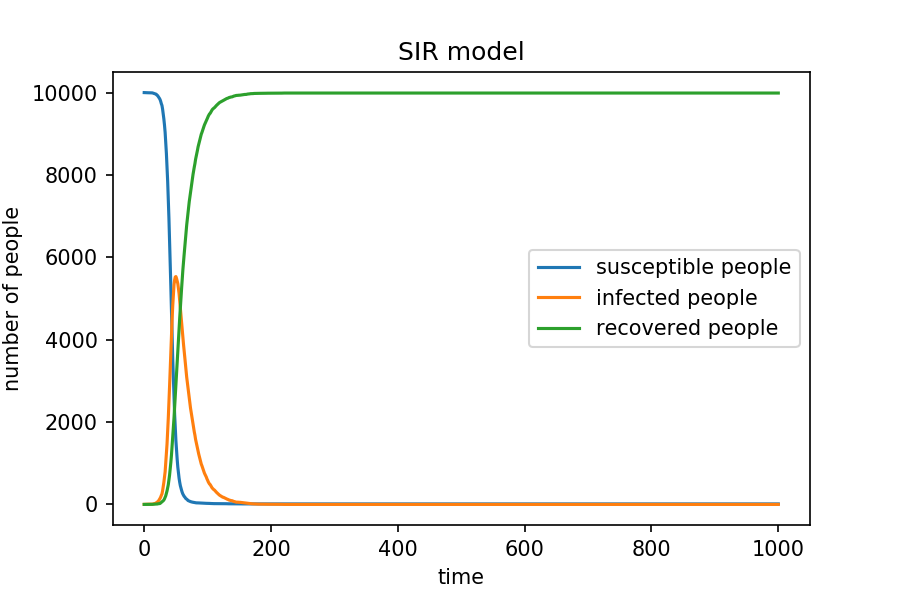
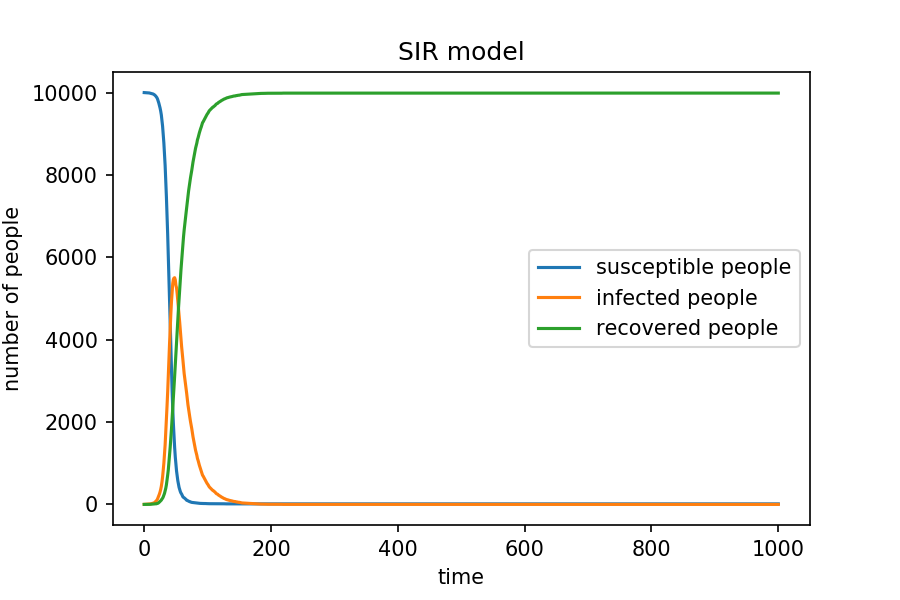
commit ^_^

Changed region(s): [[0.1556, 0.15, 0.2489, 0.84], [0.2178, 0.18, 0.2489, 0.24]]

diff --git a/Practical4/collatz.py b/Practical4/collatz.py
@@ -1,35 +1,17 @@
 # -*- coding: utf-8 -*-
-#"""
-#Created on Wed Mar 13 09:46:40 2019
+"""
+Created on Wed Mar 13 09:46:40 2019
 
-#@author: 11601
-#"""
-
-# n=100
-# if n%2=0
-# n=100/2
-# else n=3*n+1
-# print(n)
-# stop when n=1
-
-#n=100 
-#for n in range (1,101):
-#  if n%2==0:
-#     n=n/2
-#     print(n)
-#  else:
-#     n=3*n+1
-#  print(n)
- 
-    
-n=100
-while n!=1:
-  if n%2==0:
+@author: 11601
+"""
+#get random number, so we don't need to alter the n every time
+import numpy as np
+n = np.random.randint(1,101) #these two steps are to assign one random integer to n and print it
+print(n)
+while n!=1: #keep doing the following collatz calculation until the n equals to 1
+  if n%2==0:#if the n can be divided by 2, then divide it by 2 and print the outcome as integer
      n=n/2
-     print(n)
-  elif n%2!=0:
+     print(int(n))
+  else:#if it can not be divided by 2, multiply it by 3 and add 1 to it, also print outcome as integer
      n=3*n+1
-     print(n)
-
- 
-     
+     print(int(n))

diff --git a/Practical4/variables.py b/Practical4/variables.py
@@ -5,14 +5,30 @@
 
 a=812
 b=812812
+print('''
+a=812
+b=812812
+''')
+print('can b be divided by 7?-',b%7 == 0)
 c=b/7
 d=c/11
 e=d/13
-
+print('a =',a,' b =',b)
+if e < a:
+    print('a is greater than e')
+elif e == a:
+    print('a is equal to e')
+else:
+    print('e is greater than a')
+print(' ')
 
 X=(a==b)
 Y=(a==e)
-print(X,Y)
-print((X and not Y)or(Y and not X))
-print(X!=Y)
+Z=(X and not Y)or(Y and not X)
+W=(X!=Y)
+
+print('X is',X,', Y is',Y)
+print('either X or Y (but not both) is true is-',Z)
+print('more elegant solution of Zhiwen is-',W)
+print('is the Z and W always the same?-',Z==W)
 

diff --git a/Practical12/SIR.py b/Practical12/SIR.py
@@ -8,8 +8,6 @@ Created on Wed May  8 11:23:03 2019
 import numpy as np
 import matplotlib.pyplot as plt
 
-
-
 time = 0
 sus = 9999
 inf = 1
@@ -45,5 +43,5 @@ P_rec, = plt.plot(record_rec)
 P_rec.set_label('recovered people')
 plt.legend()
 
-plt.savefig("C:/Users/11601/Desktop/IBI/IBI1_2018-19/Practical12/SIR",type="png")
+plt.savefig("SIR",type="png")
 plt.show()

diff --git a/Practical4/powersof2.py b/Practical4/powersof2.py
@@ -1,10 +1,9 @@
 # -*- coding: utf-8 -*-
-#"""
-#Created on Wed Mar 13 10:44:30 2019
-#
-#@author: 11601
-#"""
-#
+"""
+Created on Wed Mar 13 10:44:30 2019
+
+@author: 11601
+"""
 
 n=3500
 i=12
@@ -16,6 +15,5 @@ while i>=0:
     i=i-1
  else:
     i=i-1
-    
 print(answer)
     

diff --git a/Practical4/mystery_code.py b/Practical4/mystery_code.py
@@ -1,5 +1,5 @@
 # What does this piece of code do?
-# Answer: print the prime numbers from 1 to 100
+# Answer: randomly print one prime number from 1 to 100
 
 # Import libraries
 # randint allows drawing a random number, 
